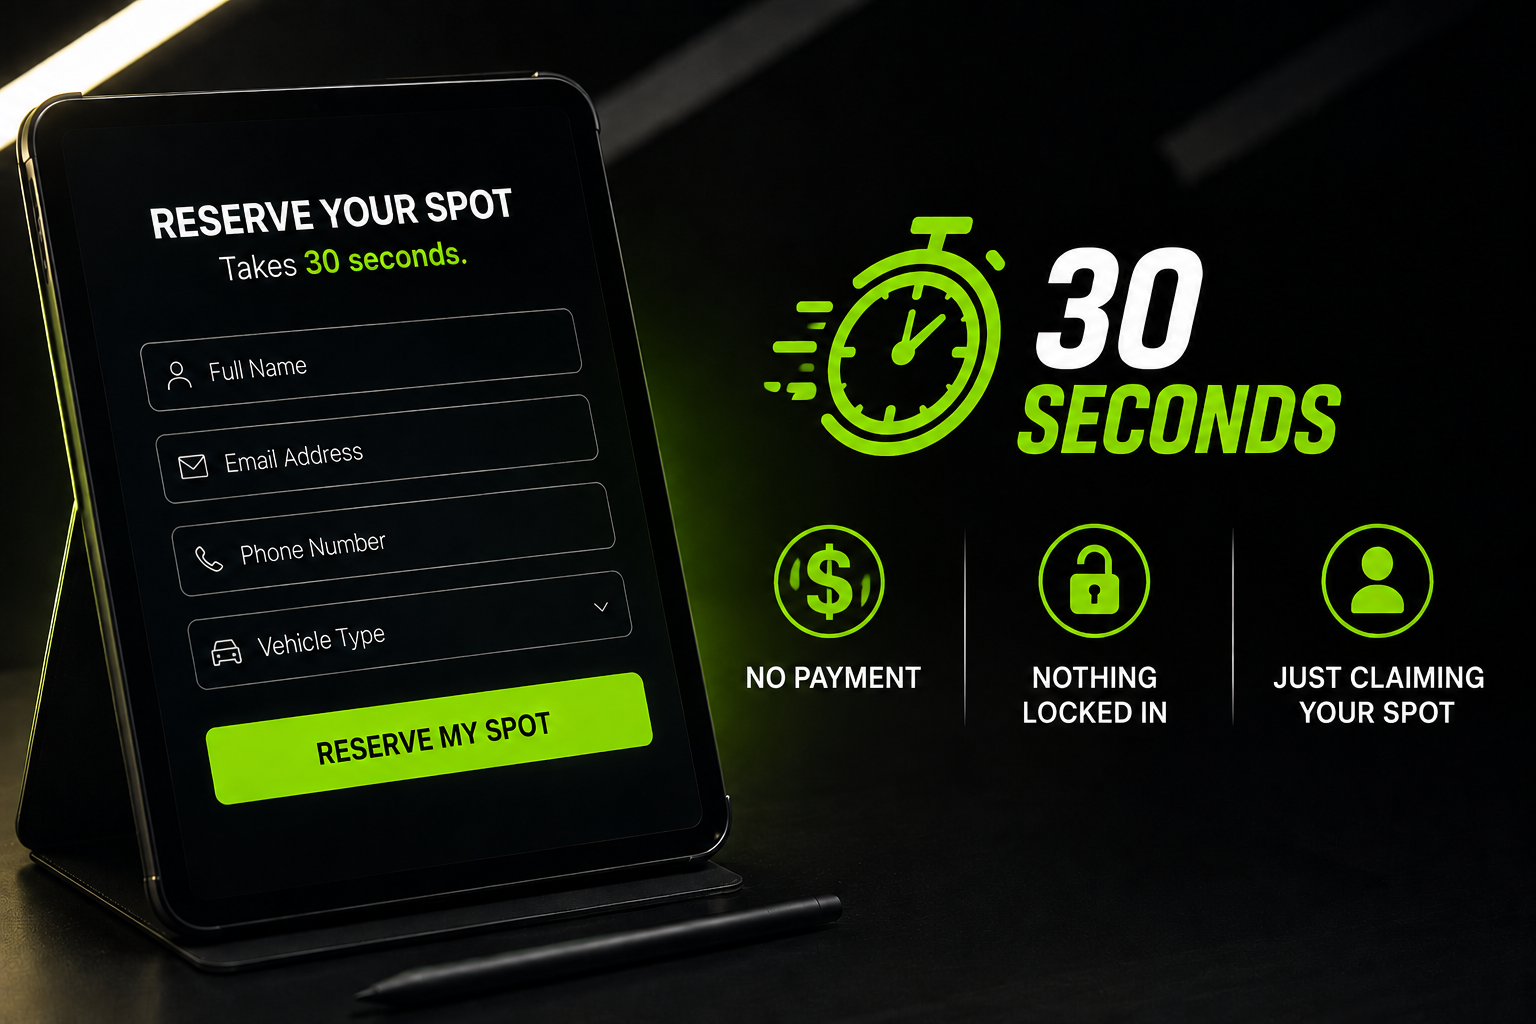
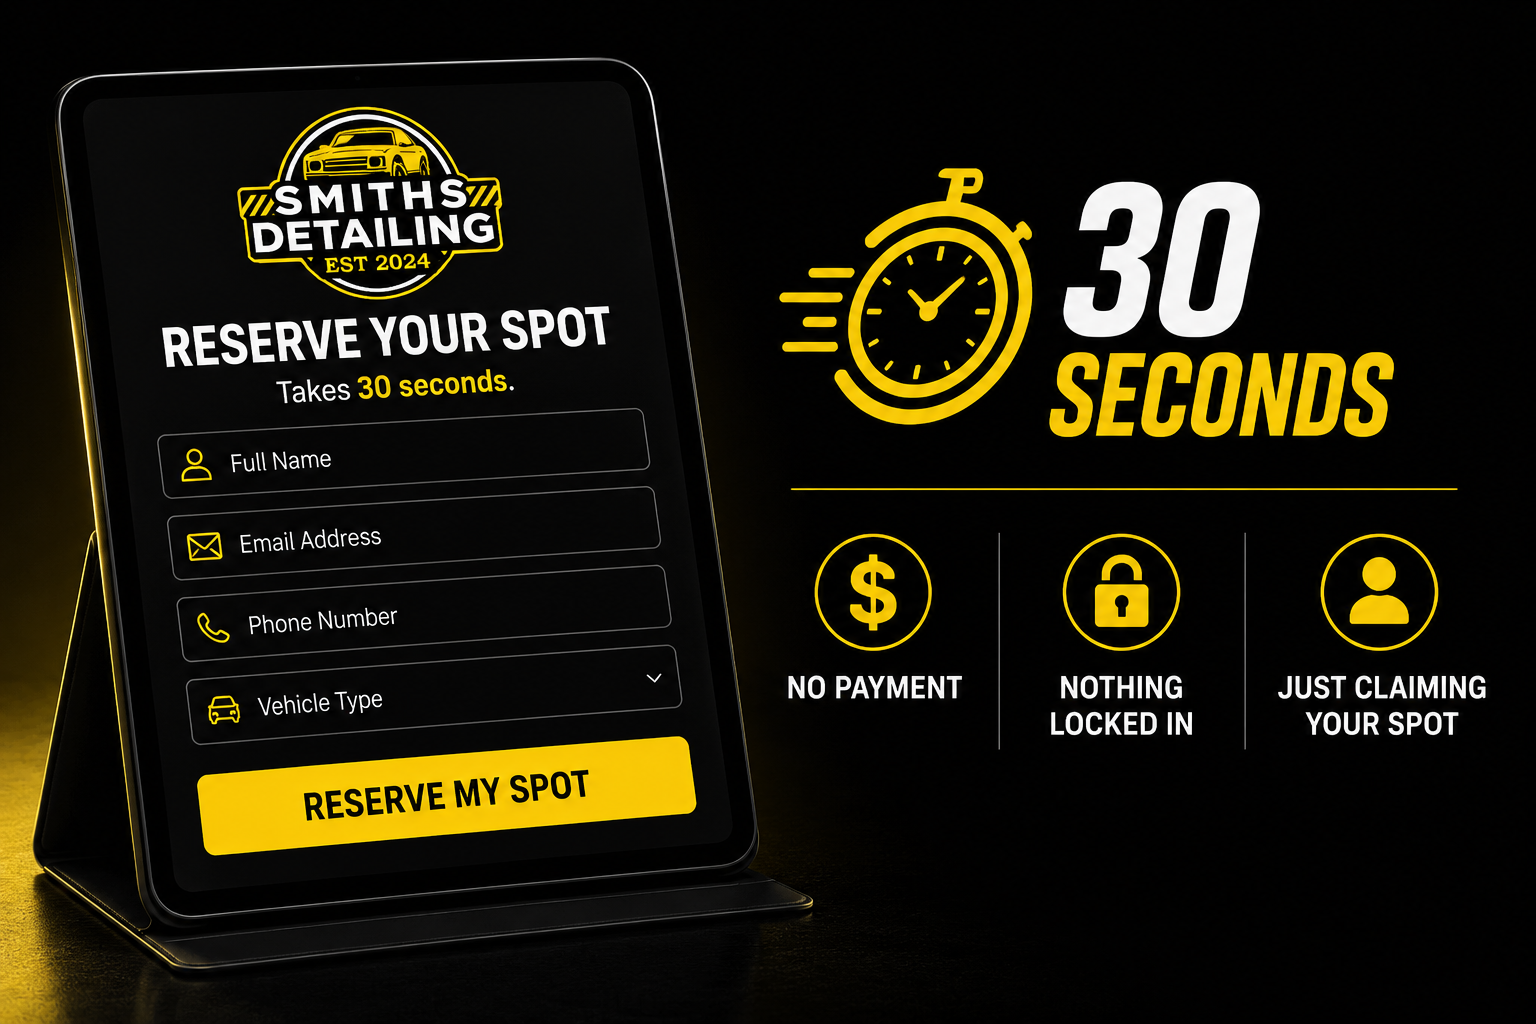
Update Reserve image + add We call you image to How it works step 2

diff --git a/src/components/MembershipContent.tsx b/src/components/MembershipContent.tsx
@@ -61,7 +61,7 @@ const EVERY_6_MONTHS: Group[] = [
 
 const STEPS: { n: string; title: string; body: string; image?: string }[] = [
   { n: "1", title: "Reserve your spot", body: "Takes 30 seconds. No payment and nothing locked in yet, you're just claiming a founding spot.", image: "/media/photos/step-reserve.png" },
-  { n: "2", title: "We call you", body: "We confirm your car, your exact weekly price, and book in your first detail." },
+  { n: "2", title: "We call you", body: "We confirm your car, your exact weekly price, and book in your first detail.", image: "/media/photos/step-call.png" },
   { n: "3", title: "Hand us the keys", body: "We keep it detailed and serviced on a schedule. You never think about car admin again." },
 ];
 
